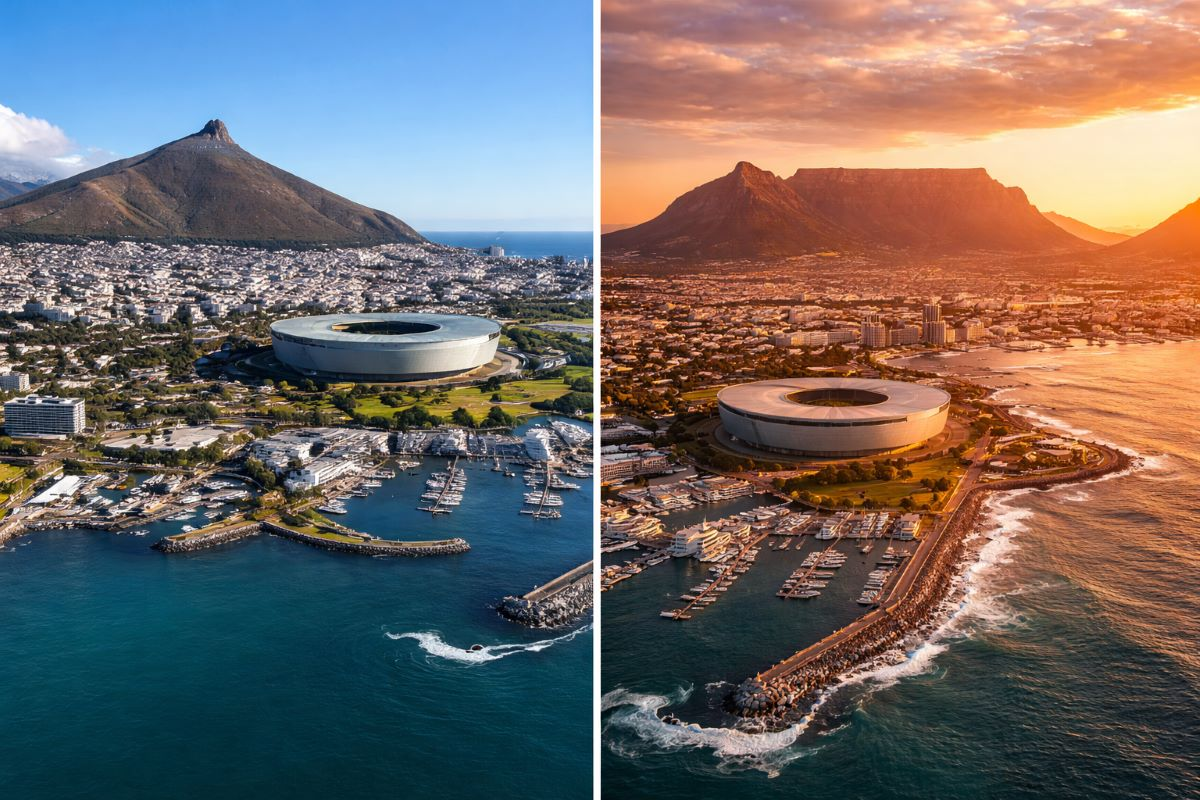
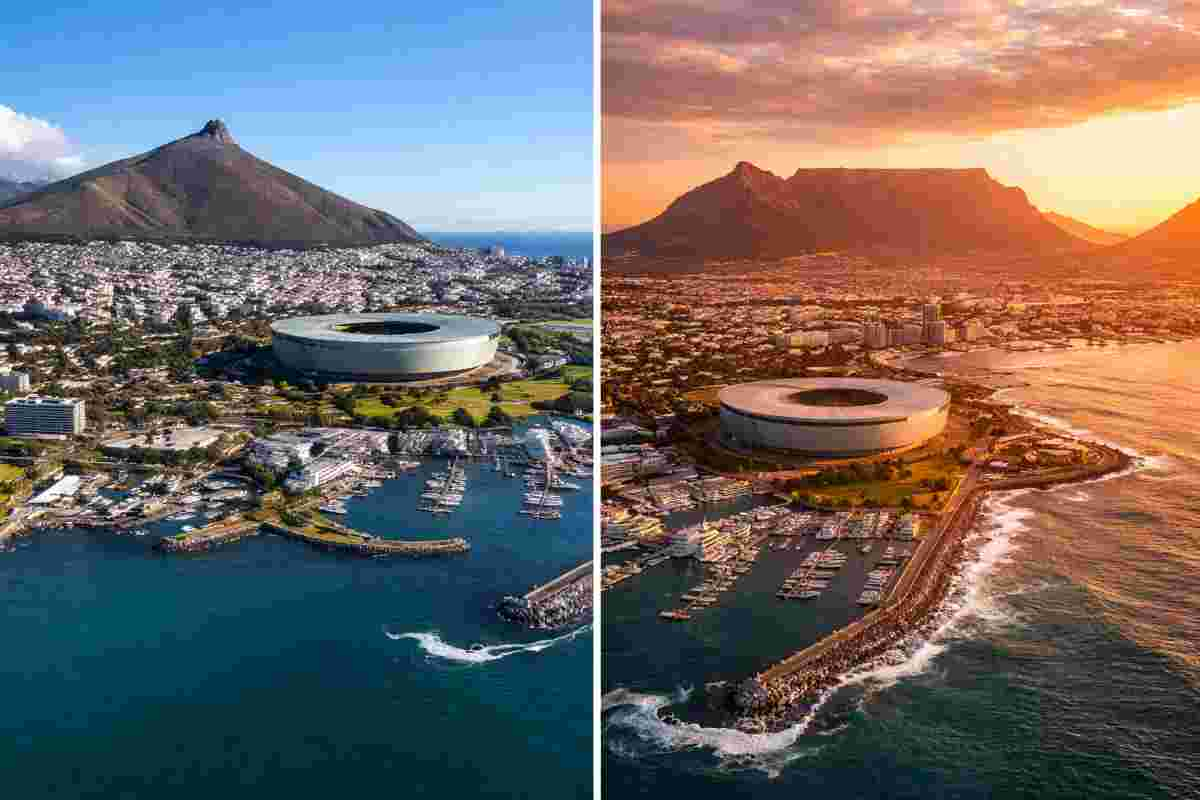
added meta description

diff --git a/place.html b/place.html
@@ -4,6 +4,10 @@
 <head>
     <meta charset="UTF-8">
     <meta name="viewport" content="width=device-width, initial-scale=1.0">
+    <meta name="description"
+        content="Discover the beauty, culture, and attractions of South Africa – a vibrant country full of adventure and history.">
+    <meta name="author" content="Winfred Lubanga">
+
     <title>South Africa</title>
 
     <link rel="stylesheet" href="styles/place.css">
